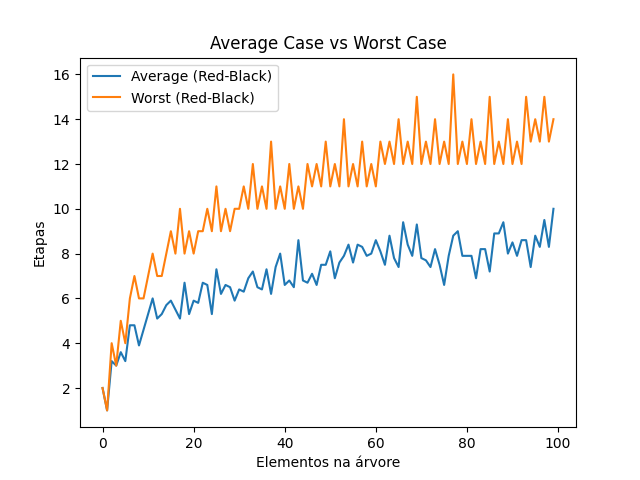
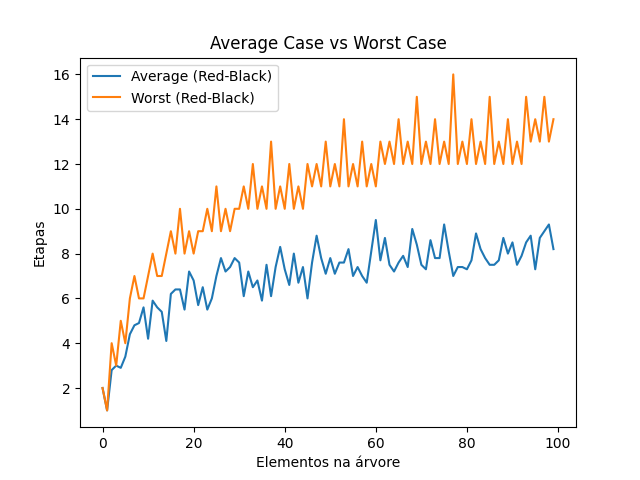
update

Changed region(s): [[0.1875, 0.4375, 0.875, 0.75], [0.3438, 0.5312, 0.375, 0.5625], [0.1562, 0.75, 0.1875, 0.7812]]

diff --git a/Trabalho/PlotResults.py b/Trabalho/PlotResults.py
@@ -93,16 +93,20 @@ f.close()
 # (8) Plotando todos os gráficos em um só:
 
 plt.plot(xpointsAverageRB, ypointsAverageRB, label="Average (RB)")
-
-plt.plot(xpointsWorstRB, ypointsWorstRB, label="Worst (RB)")
-
 plt.plot(xpointsAverageAVL, ypointsAverageAVL, label="Average (AVL)")
-
-plt.plot(xpointsWorstAVL, ypointsWorstAVL, label="Worst (AVL)")
-
-plt.title("Average Case vs Worst Case")
+plt.title("Average Cases")
 plt.xlabel("Elementos na árvore")
 plt.ylabel("Etapas")
 plt.legend(loc="upper left")
-plt.savefig(generalPath + "Graphics\\AllTrees.png")
+plt.savefig(generalPath + "Graphics\\AllTreesAverage.png")
+plt.close()
+
+plt.plot(xpointsWorstRB, ypointsWorstRB, label="Worst (RB)")
+plt.plot(xpointsWorstAVL, ypointsWorstAVL, label="Worst (AVL)")
+
+plt.title("Worst Cases")
+plt.xlabel("Elementos na árvore")
+plt.ylabel("Etapas")
+plt.legend(loc="upper left")
+plt.savefig(generalPath + "Graphics\\AllTreesWorst.png")
 plt.close()
